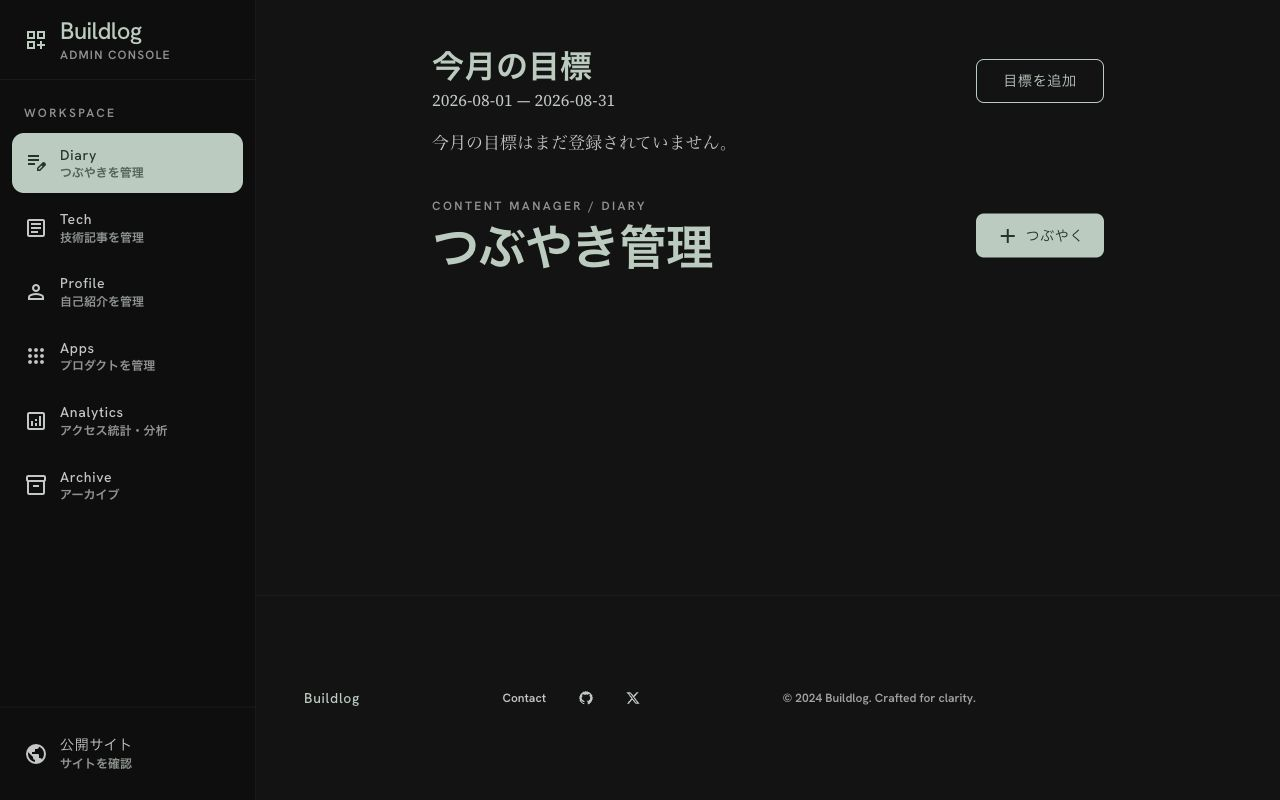
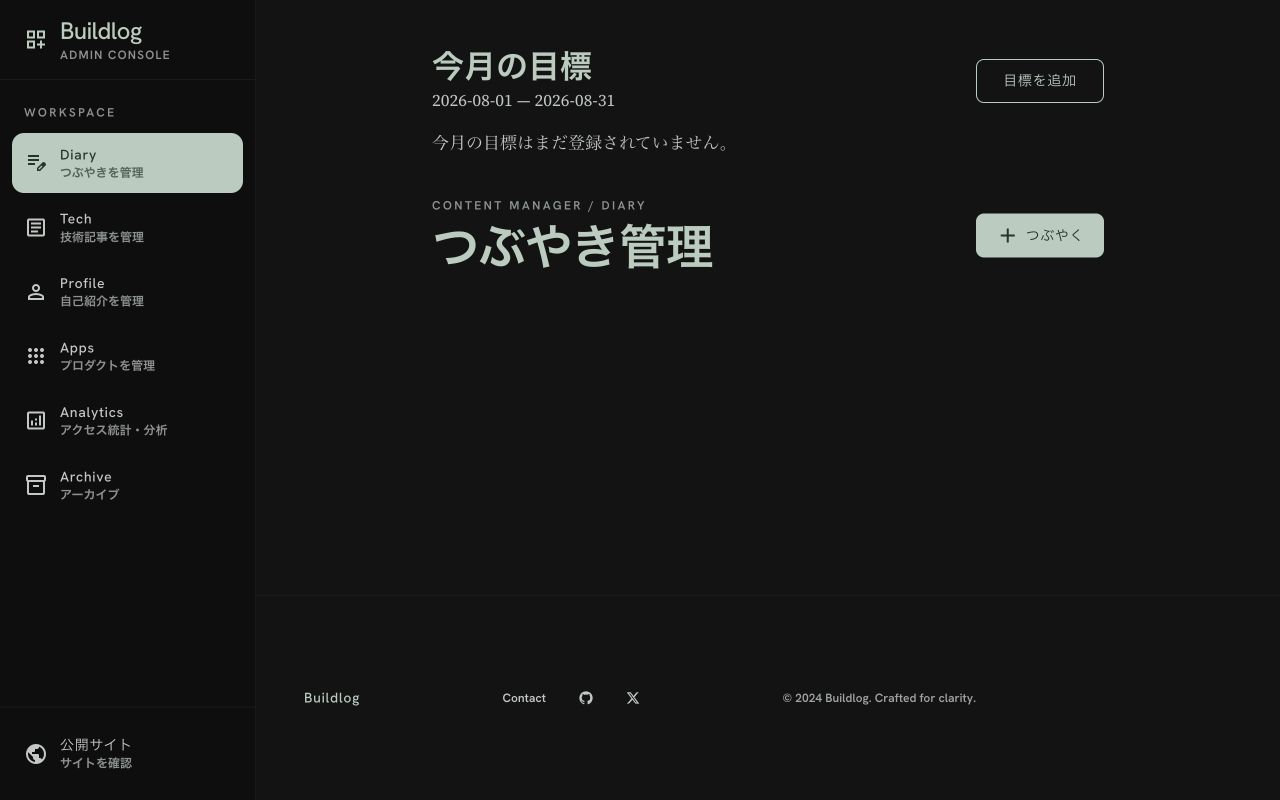
fix: モバイルの追加ボタンを一段階縮小

diff --git a/web/src/routes/admin/+page.svelte b/web/src/routes/admin/+page.svelte
@@ -99,7 +99,7 @@
 			<h1 id="goals-heading" class="font-headline-lg text-headline-lg text-primary">今月の目標</h1>
 			<p class="font-body-sm text-body-sm text-on-surface-variant">{goals.startsAt} — {goals.endsAt}</p>
 		</div>
-		<button type="button" onclick={() => openGoalDialog()} class="font-label-md text-label-md inline-flex min-h-11 min-w-32 shrink-0 items-center justify-center whitespace-nowrap rounded-lg border border-primary px-4 py-2 text-primary hover:bg-primary hover:text-on-primary">目標を追加</button>
+		<button type="button" onclick={() => openGoalDialog()} class="font-label-md text-label-md inline-flex min-h-11 min-w-28 shrink-0 items-center justify-center whitespace-nowrap rounded-lg border border-primary px-3 py-2 text-primary hover:bg-primary hover:text-on-primary md:min-w-32 md:px-4">目標を追加</button>
 	</div>
 	<div class="grid gap-4 md:grid-cols-2">
 		{#each goals.goals as goal (goal.id)}

diff --git a/web/src/lib/components/DiaryFeed.svelte b/web/src/lib/components/DiaryFeed.svelte
@@ -84,7 +84,7 @@
 		{#if isAdmin}
 			<a
 				href={resolve(isAdmin ? '/admin/diary/new' : '/diary/new')}
-				class="font-label-md text-label-md flex min-h-11 min-w-32 shrink-0 cursor-pointer items-center justify-center gap-1.5 rounded-lg bg-primary px-4 py-2 text-on-primary transition-all hover:bg-primary/95 active:scale-95"
+				class="font-label-md text-label-md flex min-h-11 w-28 shrink-0 cursor-pointer items-center justify-center gap-1.5 rounded-lg bg-primary px-3 py-2 text-on-primary transition-all hover:bg-primary/95 active:scale-95 md:w-32 md:px-4"
 			>
 				<span class="material-symbols-outlined text-[18px]">add</span>
 				<span class="whitespace-nowrap">つぶやく</span>
